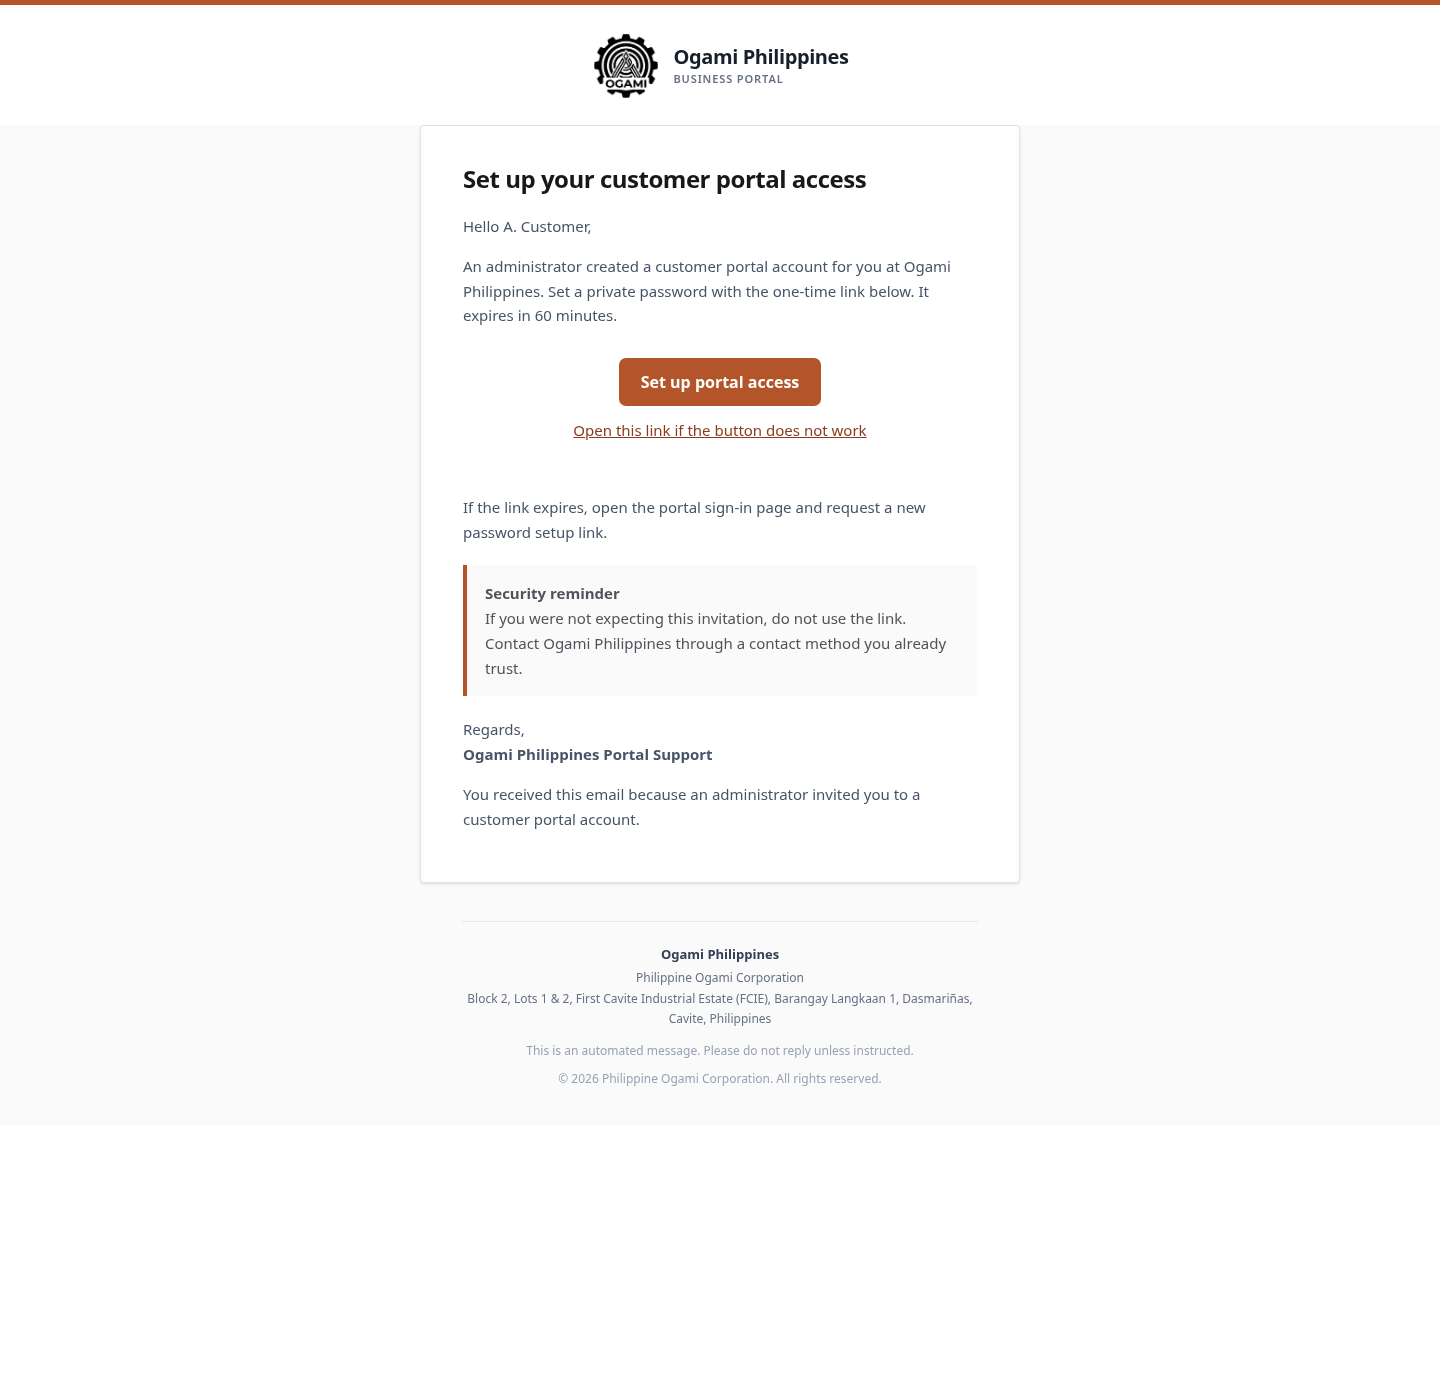
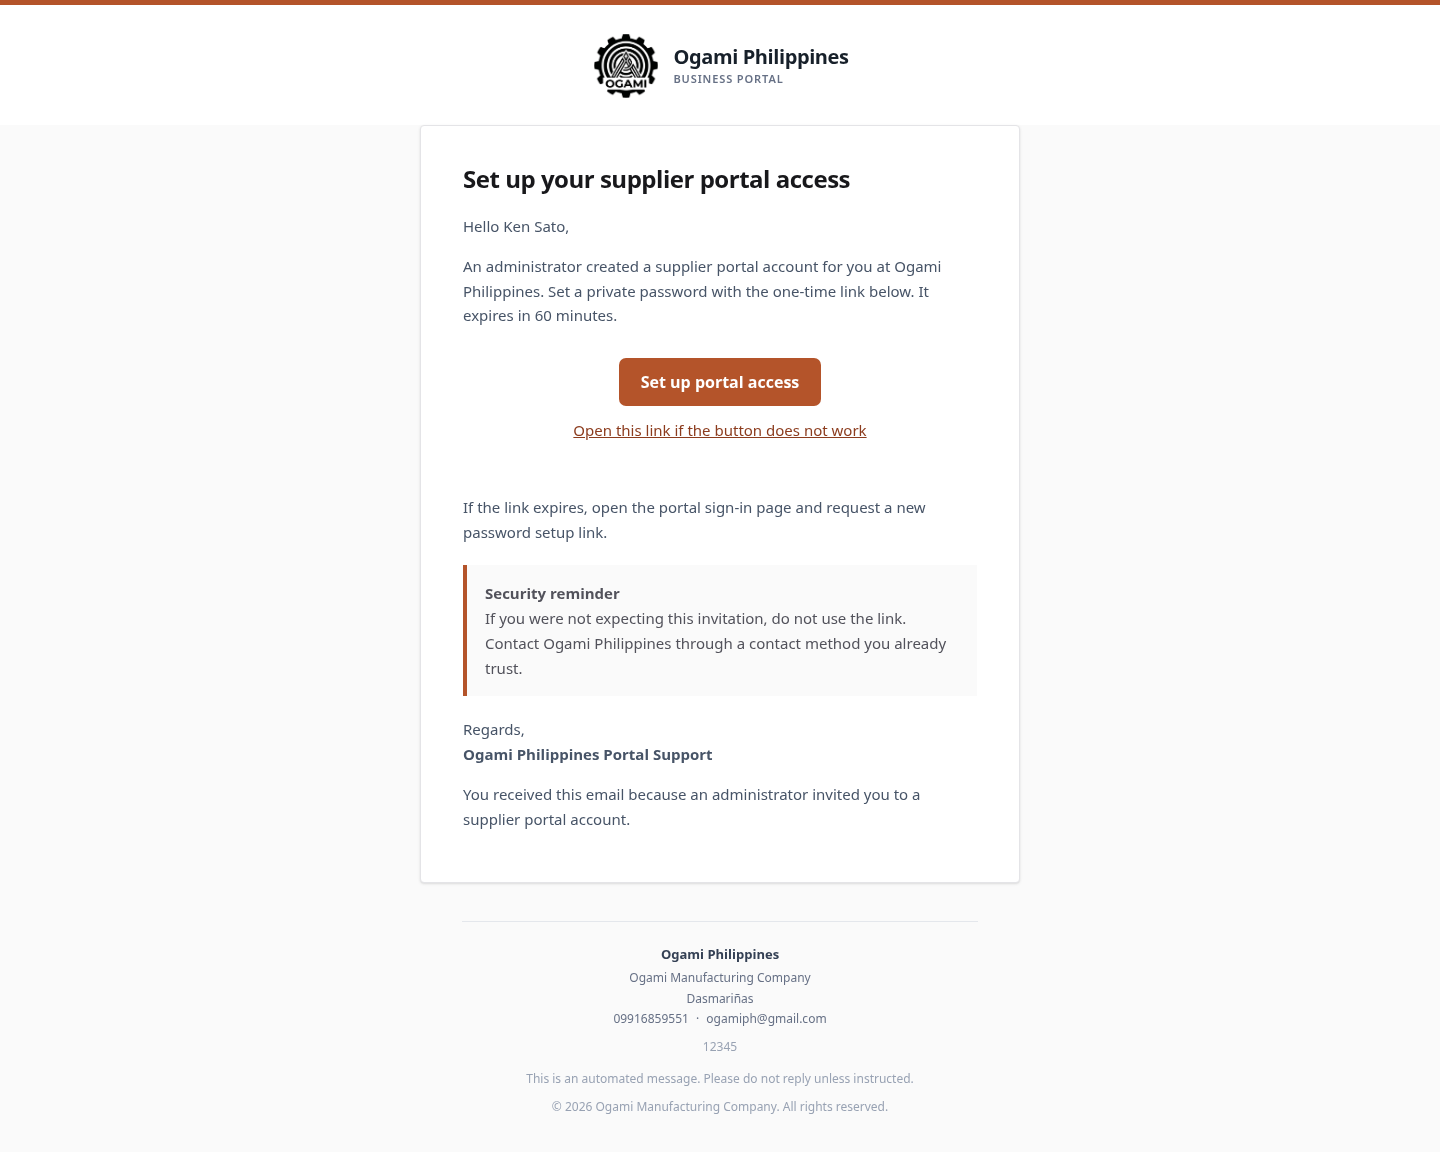
docs(email): refresh portal email previews

diff --git a/docs/emails/E-005-portal-invitation.md b/docs/emails/E-005-portal-invitation.md
@@ -17,7 +17,7 @@ Status: shared security correction is in draft PR #223; template redesign is in 
 ## Verification
 
 - `PortalPasswordResetTest.php`: 12 tests passed, 65 assertions. Covers customer/supplier setup/reset routes, subject, preheader, plain-text link, escaped recipient input, token hashing/expiry/invalidation, and no temporary password.
-- Browser previews inspected at 1440px desktop and 390px mobile in light/dark modes. All four showed no horizontal overflow; correct logo and dark colors selected. HTML size: 21,399 bytes. Screenshots: [desktop light](screenshots/portal-invitation-desktop-light.png), [desktop dark](screenshots/portal-invitation-desktop-dark.png), [mobile light](screenshots/portal-invitation-mobile-light.png), [mobile dark](screenshots/portal-invitation-mobile-dark.png).
+- Browser previews inspected at 1440px desktop and 390px mobile in light/dark modes. `PortalAccessInvitationMail::render()` produced the preview with a dummy token; no mail was sent. All four browser captures fit their viewport and show the correct logo variant. HTML size: 22,351 bytes. Branding values come from the local seeded settings and need owner confirmation. Screenshots: [desktop light](screenshots/portal-invitation-desktop-light.png), [desktop dark](screenshots/portal-invitation-desktop-dark.png), [mobile light](screenshots/portal-invitation-mobile-light.png), [mobile dark](screenshots/portal-invitation-mobile-dark.png).
 - Browser rendering does not verify Outlook, Gmail, Apple Mail, Yahoo, or mobile mail clients. No real email was sent.
 
 ## Review still required

diff --git a/docs/emails/E-006-portal-password-reset.md b/docs/emails/E-006-portal-password-reset.md
@@ -15,7 +15,7 @@ Status: template redesign is in progress in the portal-security email draft PR.
 ## Verification
 
 - `PortalPasswordResetTest.php`: included in the 12 passing tests, 65 assertions documented under E-005; verifies supplier/customer trigger typing, subject, frontend route, and token reset behavior.
-- Browser previews inspected at 1440px desktop and 390px mobile in light/dark modes. All four showed no horizontal overflow; correct logo and dark colors selected. HTML size: 19,639 bytes. Screenshots: [desktop light](screenshots/portal-password-reset-desktop-light.png), [desktop dark](screenshots/portal-password-reset-desktop-dark.png), [mobile light](screenshots/portal-password-reset-mobile-light.png), [mobile dark](screenshots/portal-password-reset-mobile-dark.png).
+- Browser previews inspected at 1440px desktop and 390px mobile in light/dark modes. `PortalPasswordResetMail::render()` produced the preview with a dummy token; no mail was sent. All four browser captures fit their viewport and show the correct logo variant. HTML size: 20,594 bytes. Branding values come from the local seeded settings and need owner confirmation. Screenshots: [desktop light](screenshots/portal-password-reset-desktop-light.png), [desktop dark](screenshots/portal-password-reset-desktop-dark.png), [mobile light](screenshots/portal-password-reset-mobile-light.png), [mobile dark](screenshots/portal-password-reset-mobile-dark.png).
 - Browser rendering does not verify Outlook, Gmail, Apple Mail, Yahoo, or mobile mail clients. No real email was sent.
 
 ## Review still required
